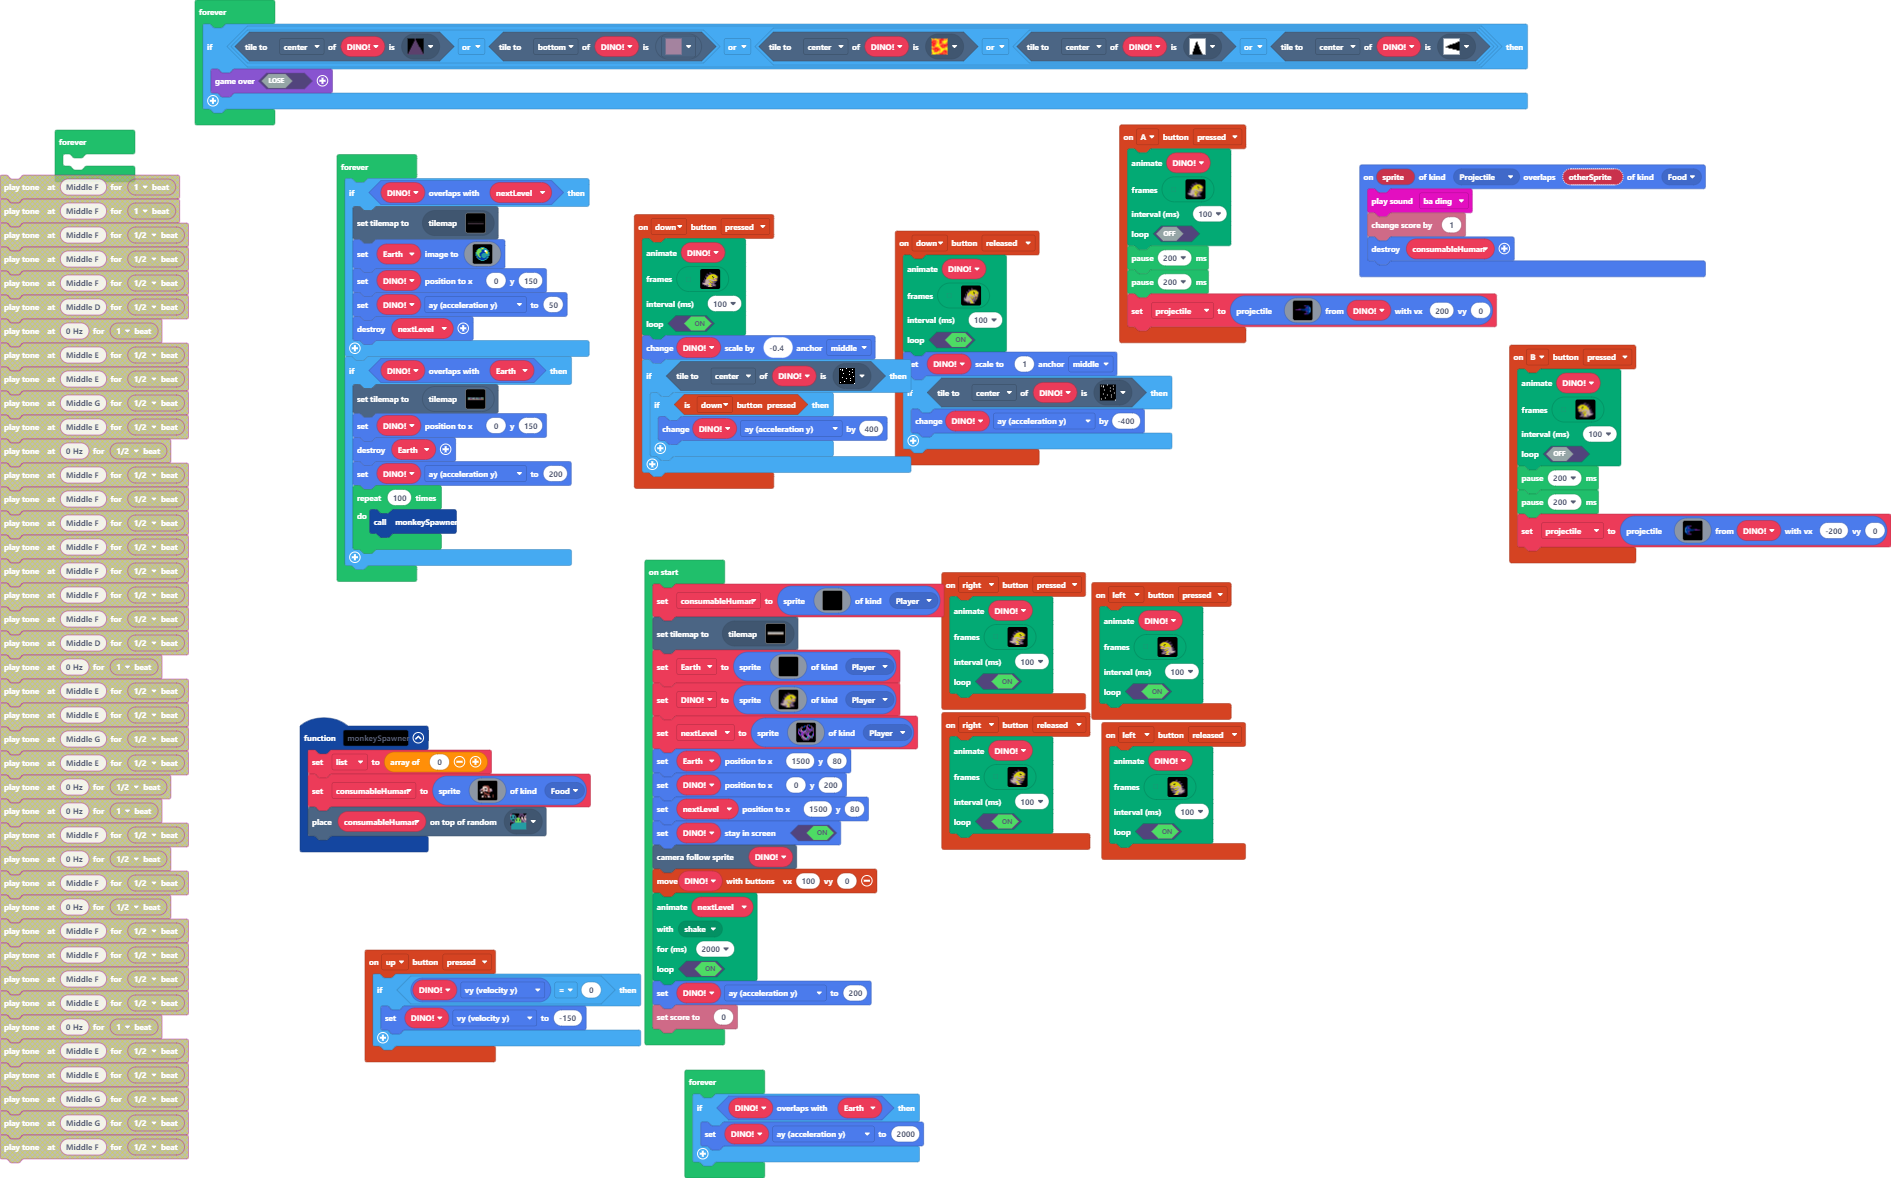
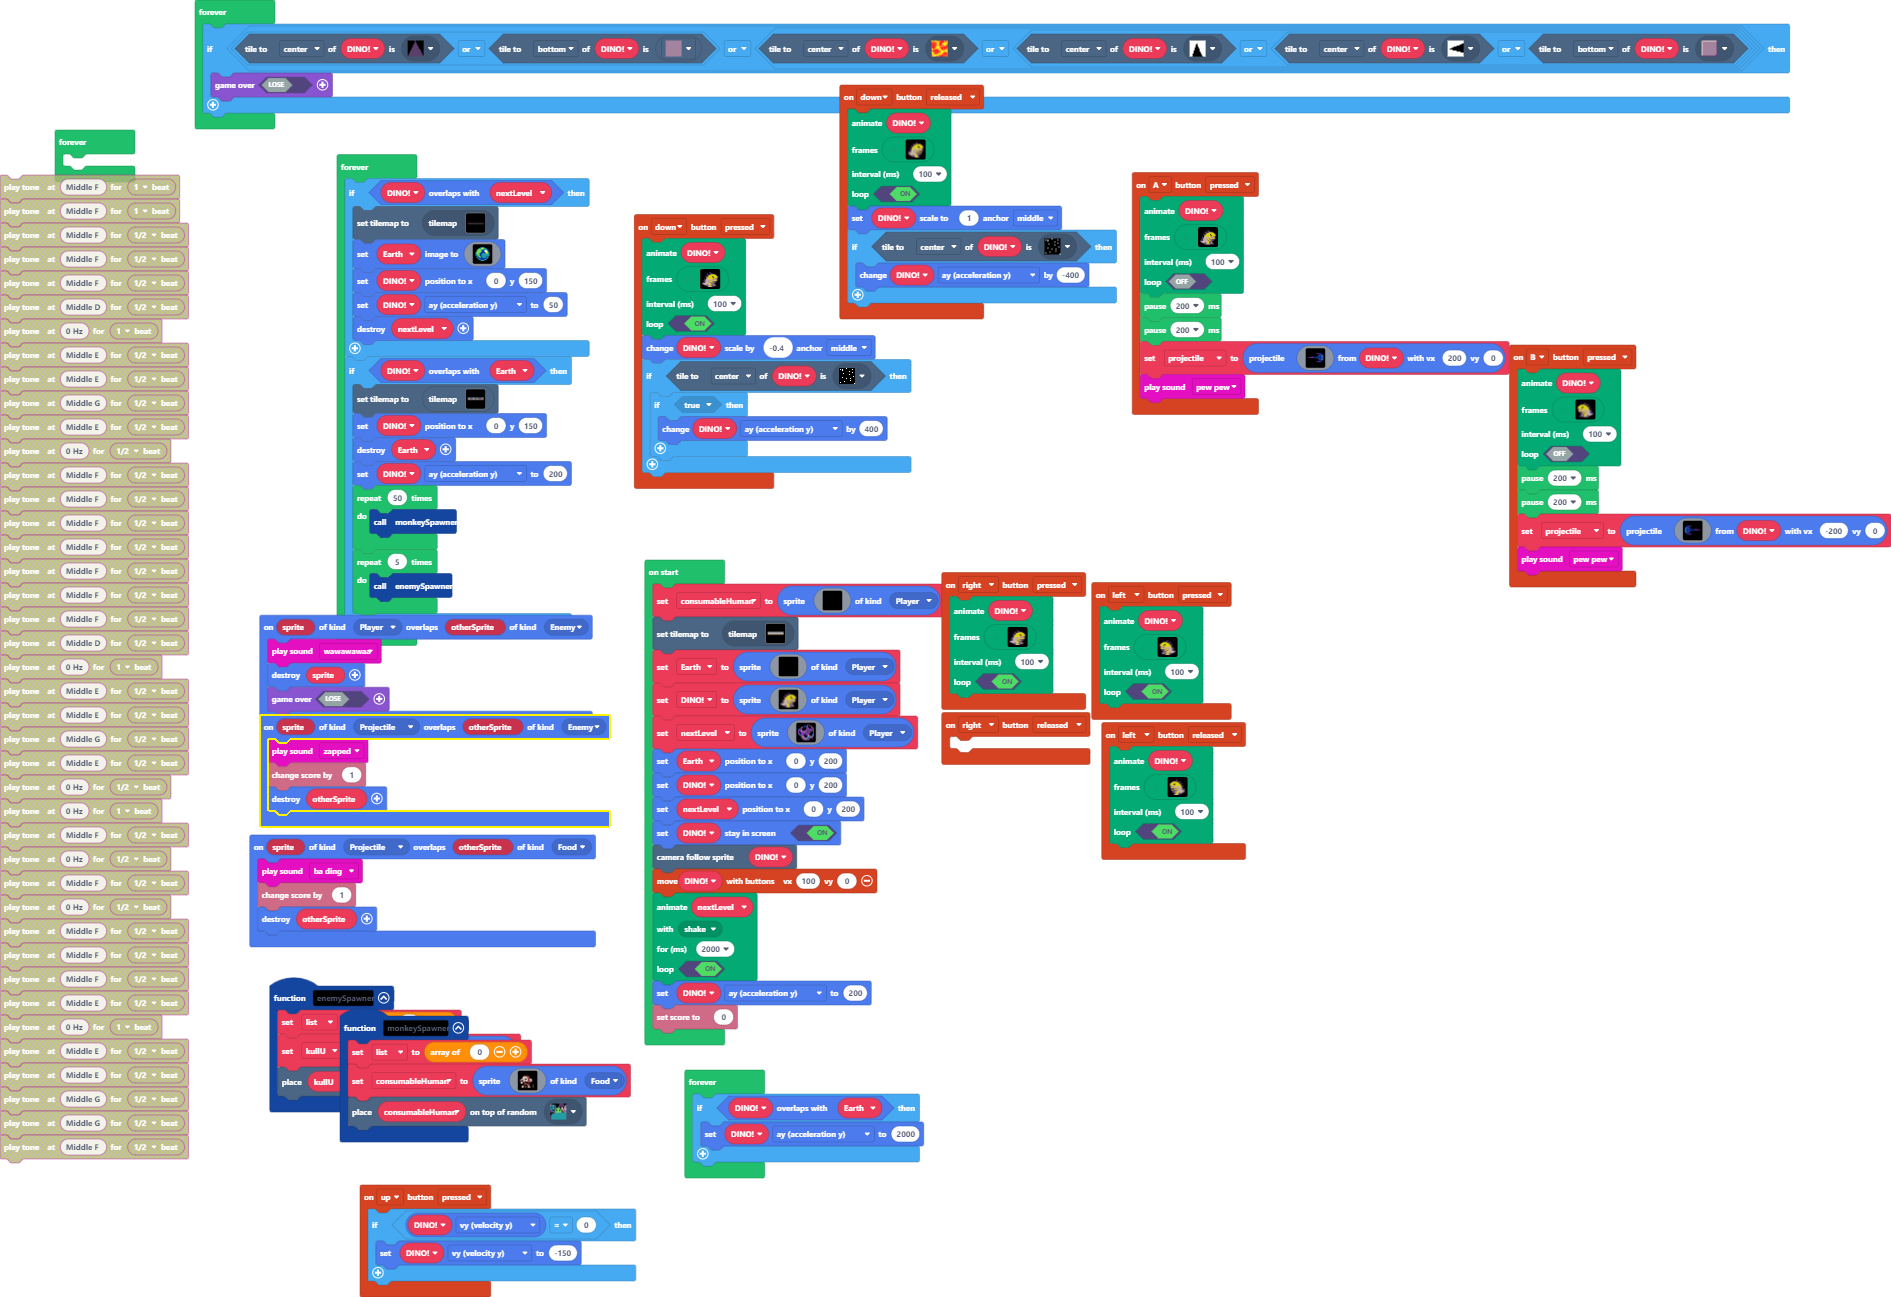
pretty much finished

diff --git a/tilemap.g.ts b/tilemap.g.ts
@@ -239,7 +239,7 @@ namespace myTiles {
 . . . . . . . . . . . . . . . . 
 `, [myTiles.transparency16], TileScale.Sixteen);
             case "level7":
[2 lines of base64/hex data omitted]
 ....................................................................................................
 ......................................................................2222..........................
 ...............................22222222......222...........222222........22.........................

diff --git a/main.ts b/main.ts
@@ -6,7 +6,7 @@ controller.up.onEvent(ControllerButtonEvent.Pressed, function () {
 sprites.onOverlap(SpriteKind.Projectile, SpriteKind.Food, function (sprite, otherSprite) {
     music.baDing.play()
     info.changeScoreBy(1)
-    consumableHuman.destroy()
+    otherSprite.destroy()
 })
 controller.B.onEvent(ControllerButtonEvent.Pressed, function () {
     animation.runImageAnimation(
@@ -186,6 +186,7 @@ controller.B.onEvent(ControllerButtonEvent.Pressed, function () {
         ...888888aa...................
         ....88aaaaaaa.................
         `, DINO, -200, 0)
+    music.pewPew.play()
 })
 controller.A.onEvent(ControllerButtonEvent.Pressed, function () {
     animation.runImageAnimation(
@@ -365,6 +366,7 @@ controller.A.onEvent(ControllerButtonEvent.Pressed, function () {
         ...................aa888888...
         .................aaaaaaa88....
         `, DINO, 200, 0)
+    music.pewPew.play()
 })
 controller.down.onEvent(ControllerButtonEvent.Released, function () {
     animation.runImageAnimation(
@@ -403,6 +405,28 @@ controller.down.onEvent(ControllerButtonEvent.Released, function () {
         DINO.ay += -400
     }
 })
+function enemySpawner () {
+    list = [0]
+    kullU = sprites.create(img`
+        . . . . . . . . . . . . . . . . 
+        . . . . . f f f f f f . . . . . 
+        . . . . f 2 f e e e e f f . . . 
+        . . . f 2 2 2 f e e e e f f . . 
+        . . . f e e e e f f e e e f . . 
+        . . f e 2 2 2 2 e e f f f f . . 
+        . . f 2 e f f f f 2 2 2 e f . . 
+        . . f f f e e e f f f f f f f . 
+        . . f e e 4 4 f b e 4 4 e f f . 
+        . . f f e d d f 1 4 d 4 e e f . 
+        . f d d f d d d d 4 e e e f . . 
+        . f b b f e e e 4 e e f . . . . 
+        . f b b e d d 4 2 2 2 f . . . . 
+        . . f b e d d e 4 4 4 f f . . . 
+        . . . f f e e f f f f f f . . . 
+        . . . . f f f . . . f f . . . . 
+        `, SpriteKind.Enemy)
+    tiles.placeOnRandomTile(kullU, sprites.builtin.crowd0)
+}
 controller.left.onEvent(ControllerButtonEvent.Pressed, function () {
     animation.runImageAnimation(
     DINO,
@@ -562,37 +586,7 @@ controller.left.onEvent(ControllerButtonEvent.Pressed, function () {
     )
 })
 controller.right.onEvent(ControllerButtonEvent.Released, function () {
-    animation.runImageAnimation(
-    DINO,
-    [img`
-        ........................
-        ............cc..........
-        ............ccc.........
-        ........cc..ccccccc.....
-        ........ccccc555555cc...
-        ........ccb5555555555c..
-        .....cc..b555555555555c.
-        .....cccb555555ff155555c
-        ......cb55555555ff55d55c
-        ......b5555555555555555c
-        ...cc.b555dd5555bb13bbc.
-        ...cccd55ddddd555b3335c.
-        ....ccdd5ddddddd55b335c.
-        .....bddddb55bdddd5555c.
-        ..cccdddddb55bbbbbcccc..
-        .ccccddddddb5555cbcccc..
-        .cdccdddddddc555cbc55c..
-        .cdddddddddddcccbbc5c...
-        .cbddddddd55dbbbbccc....
-        .ccbdddddd555dbbbcbc....
-        ..cccddbbbd555bbccc.....
-        ....ccbbbbbd555cc.......
-        ......ccccbddddbc.......
-        ..........cd5555dc......
-        `],
-    100,
-    true
-    )
+	
 })
 controller.left.onEvent(ControllerButtonEvent.Released, function () {
     animation.runImageAnimation(
@@ -966,11 +960,22 @@ controller.down.onEvent(ControllerButtonEvent.Pressed, function () {
     )
     DINO.changeScale(-0.4, ScaleAnchor.Middle)
     if (DINO.tileKindAt(TileDirection.Center, assets.tile`myTile1`)) {
-        if (controller.down.isPressed()) {
+        if (true) {
             DINO.ay += 400
         }
     }
 })
+sprites.onOverlap(SpriteKind.Projectile, SpriteKind.Enemy, function (sprite, otherSprite) {
+    music.zapped.play()
+    info.changeScoreBy(1)
+    otherSprite.destroy()
+})
+sprites.onOverlap(SpriteKind.Player, SpriteKind.Enemy, function (sprite, otherSprite) {
+    music.wawawawaa.play()
+    sprite.destroy()
+    game.over(false)
+})
+let kullU: Sprite = null
 let list: number[] = []
 let projectile: Sprite = null
 let DINO: Sprite = null
@@ -1056,9 +1061,9 @@ let nextLevel = sprites.create(img`
     . . . . c c a b b c c c . . . . 
     . . . . . c c c c c c . . . . . 
     `, SpriteKind.Player)
-Earth.setPosition(1500, 80)
+Earth.setPosition(0, 200)
 DINO.setPosition(0, 200)
-nextLevel.setPosition(1500, 80)
+nextLevel.setPosition(0, 200)
 DINO.setStayInScreen(true)
 scene.cameraFollowSprite(DINO)
 controller.moveSprite(DINO, 100, 0)
@@ -1071,7 +1076,7 @@ true
 DINO.ay = 200
 info.setScore(0)
 forever(function () {
-    if (DINO.tileKindAt(TileDirection.Center, assets.tile`myTile10`) || DINO.tileKindAt(TileDirection.Bottom, assets.tile`myTile9`) || (DINO.tileKindAt(TileDirection.Center, sprites.dungeon.hazardLava1) || (DINO.tileKindAt(TileDirection.Center, assets.tile`myTile`) || DINO.tileKindAt(TileDirection.Center, assets.tile`myTile2`)))) {
+    if (DINO.tileKindAt(TileDirection.Center, assets.tile`myTile10`) || DINO.tileKindAt(TileDirection.Bottom, assets.tile`myTile9`) || (DINO.tileKindAt(TileDirection.Center, sprites.dungeon.hazardLava1) || (DINO.tileKindAt(TileDirection.Center, assets.tile`myTile`) || (DINO.tileKindAt(TileDirection.Center, assets.tile`myTile2`) || DINO.tileKindAt(TileDirection.Bottom, assets.tile`myTile11`))))) {
         game.over(false)
     }
 })
@@ -1108,8 +1113,11 @@ forever(function () {
         DINO.setPosition(0, 150)
         Earth.destroy()
         DINO.ay = 200
-        for (let index = 0; index < 100; index++) {
+        for (let index = 0; index < 50; index++) {
             monkeySpawner()
+        }
+        for (let index = 0; index < 5; index++) {
+            enemySpawner()
         }
     }
 })
